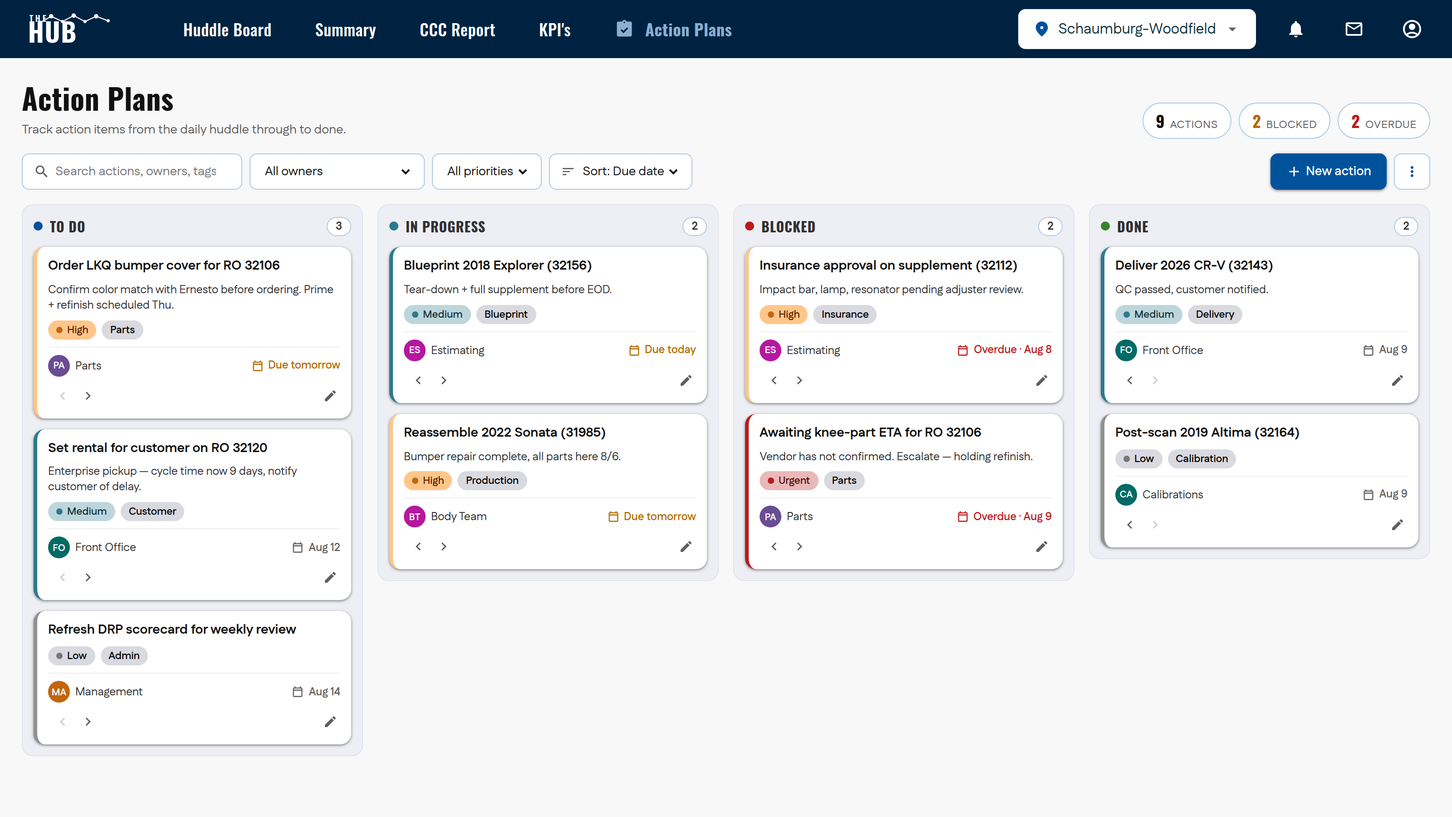
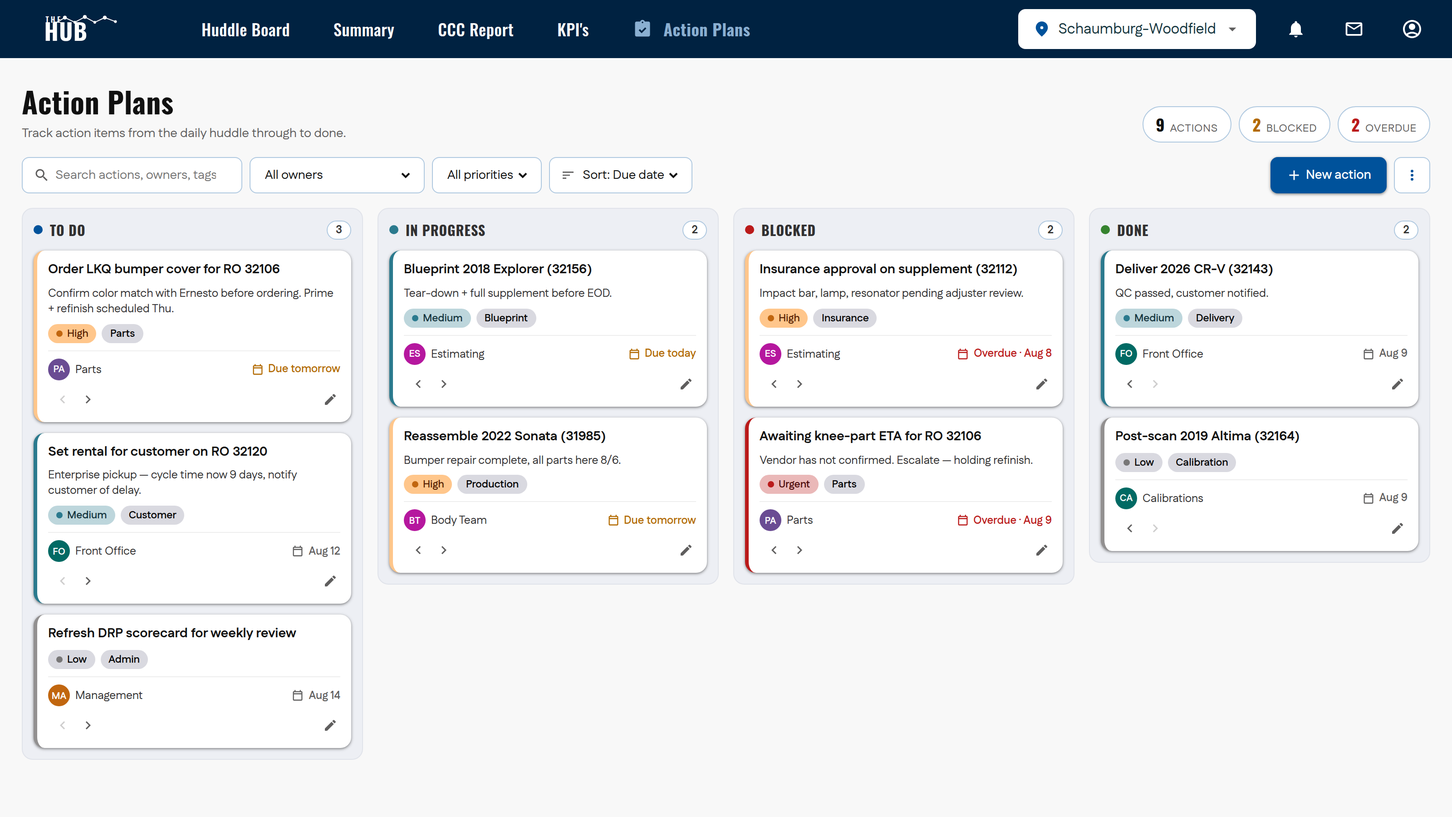
Build header/page on The Hub's real shipped CSS
Import the actual Hub layout stylesheet (assets/hub-shell.css) and
reconstruct the header and page on its real classes:

- Header now uses ClientLayout headerWrapper / navigationBarWrapper and the
  real .thehub button (158px) for the logo; content uses the real
  pageContentWrapper / pageContent (huddleBoard) wrappers.
- Add the real Hub design tokens to :root so the imported CSS resolves
  (nav bar #002241, surface-bright ground, sizing/z-index/spacing).
- Keep the recreated "THE HUB" wordmark as inline SVG art since the shipped
  CSS references an external /thehub.svg that isn't included; documented the
  one-step swap in the README.

Claude-Session: https://claude.ai/code/session_013BSpAv4JN11AdbKWqu4hxe

diff --git a/assets/hub-shell.css b/assets/hub-shell.css
@@ -1,0 +1,7 @@
+.AccessDenied-module-scss-module__4JfQEq__container{background-color:var(--color-neutral-background);justify-content:center;align-items:center;gap:var(--spacing-spacing6);height:calc(100vh - 108px);padding:0 24px;display:flex}@media (min-width:1552px){.AccessDenied-module-scss-module__4JfQEq__container{padding:0 183px}}.AccessDenied-module-scss-module__4JfQEq__container>div{box-sizing:border-box;flex:1}.AccessDenied-module-scss-module__4JfQEq__messageContainer{gap:var(--spacing-spacing6);flex-direction:column;display:flex}.AccessDenied-module-scss-module__4JfQEq__message{color:var(--color-neutral-on-background-variant)}.AccessDenied-module-scss-module__4JfQEq__buttonContainer{justify-content:flex-start;gap:var(--spacing-spacing5);display:flex}
+.thehub-module-scss-module__TSWhsq__focus-visible-border,.thehub-module-scss-module__TSWhsq__button:focus-visible{outline-width:2px;outline-style:solid;outline-color:var(--color-secondary-secondary)}.thehub-module-scss-module__TSWhsq__logo{background-image:url(/thehub.svg);background-position:50%;background-repeat:no-repeat;background-size:contain;flex:1;min-width:0;height:36px}.thehub-module-scss-module__TSWhsq__logoSmallSize{width:200px;height:74px}.thehub-module-scss-module__TSWhsq__theHubColoredLogo{background-image:url(/thehub_colors.svg);background-position:50%;background-repeat:no-repeat;background-size:contain;flex:1;min-width:0;height:100%;margin-bottom:1rem}.thehub-module-scss-module__TSWhsq__button{width:158px;height:inherit;background-color:#0000;flex-shrink:0;align-items:center;padding:0 24px;transition:box-shadow .2s,background .2s;display:flex;position:relative;border:none!important}.thehub-module-scss-module__TSWhsq__button:focus-visible{outline-offset:4px}.thehub-module-scss-module__TSWhsq__button :after{content:"";transition:background .2s;position:absolute;inset:0;border-radius:var(--corner-none)!important}.thehub-module-scss-module__TSWhsq__button:hover{cursor:pointer;border-radius:var(--corner-none);box-shadow:0 1px 2px #0000004d,0 1px 3px 1px #00000026}.thehub-module-scss-module__TSWhsq__button:hover :after{background:#ffffff14}.thehub-module-scss-module__TSWhsq__button:focus,.thehub-module-scss-module__TSWhsq__button:focus-visible{border:none!important}.thehub-module-scss-module__TSWhsq__button:focus :after,.thehub-module-scss-module__TSWhsq__button:focus-visible :after{background:#ffffff1f}.thehub-module-scss-module__TSWhsq__button:active{border:none}.thehub-module-scss-module__TSWhsq__button:active :after{background:#ffffff29}
+.statusDialog-module-scss-module__7iZpvW__background{height:100vh}.statusDialog-module-scss-module__7iZpvW__wrapper{flex-direction:column;justify-content:center;align-items:center;height:65vh;display:flex}.statusDialog-module-scss-module__7iZpvW__logoContainer{flex-direction:column;align-items:center;display:flex}.statusDialog-module-scss-module__7iZpvW__contentWrapper{flex-direction:column;align-items:center;gap:32px;display:flex}.statusDialog-module-scss-module__7iZpvW__content{flex-direction:column;align-items:center;gap:20px;display:flex}.statusDialog-module-scss-module__7iZpvW__contentLeft{text-align:left}.statusDialog-module-scss-module__7iZpvW__contentCenter{text-align:center;align-items:center}.statusDialog-module-scss-module__7iZpvW__textGroup{flex-direction:column;align-items:center;gap:16px;display:flex}.statusDialog-module-scss-module__7iZpvW__messageGroup{flex-direction:column;align-items:center;gap:4px;display:flex}.statusDialog-module-scss-module__7iZpvW__sectionGap{gap:32px}.statusDialog-module-scss-module__7iZpvW__spinnerWrapper{padding:0}
+.ImpersonationBanner-module-scss-module__ltADLa__Container{z-index:var(--z-index-impersonation-banner);background-color:var(--color-background-alert-background-warning-strong);top:var(--sizing-impersonation-banner-height);gap:var(--spacing-spacing3);padding:var(--spacing-spacing5);justify-content:space-between;align-items:center;display:flex;position:sticky}.ImpersonationBanner-module-scss-module__ltADLa__actionsContainer{gap:var(--spacing-spacing6);display:flex}@keyframes ImpersonationBanner-module-scss-module__ltADLa__exitBanner{0%{opacity:1;transform:translateY(0)}to{opacity:0;transform:translateY(-12px)}}.ImpersonationBanner-module-scss-module__ltADLa__isExiting{pointer-events:none;animation:.32s cubic-bezier(.2,0,0,1) forwards ImpersonationBanner-module-scss-module__ltADLa__exitBanner}
+.ClientLayout-module-scss-module__Skw-ja__headerWrapper{width:100%;min-width:100%;z-index:var(--z-index-header);flex-direction:column;display:flex;position:sticky;top:0;left:0}@media print{.ClientLayout-module-scss-module__Skw-ja__headerWrapper{display:none!important}}.ClientLayout-module-scss-module__Skw-ja__navigationBarWrapper{width:inherit;z-index:inherit;background-color:var(--color-primary-on-primary-container);height:var(--sizing-navigation-bar-height);position:sticky}.ClientLayout-module-scss-module__Skw-ja__navigationBarWrapper>:first-child{z-index:inherit;background-color:inherit}@media (min-width:0) and (max-width:1365px){.ClientLayout-module-scss-module__Skw-ja__navigationBarWrapper>:first-child{min-width:var(--sizing-layout-breakpoints-min-width);max-width:var(--sizing-layout-breakpoints-min-width)}}@media (min-width:1366px) and (max-width:1599px){.ClientLayout-module-scss-module__Skw-ja__navigationBarWrapper>:first-child{max-width:100vw}}@media (min-width:1600px) and (max-width:1919px){.ClientLayout-module-scss-module__Skw-ja__navigationBarWrapper>:first-child{max-width:100vw}}@media (min-width:1920px){.ClientLayout-module-scss-module__Skw-ja__navigationBarWrapper>:first-child{max-width:var(--sizing-huddleboard-breakpoints-max-width)}}.ClientLayout-module-scss-module__Skw-ja__navigationBarWrapper>:first-child{width:inherit;height:inherit;margin:0 auto}.ClientLayout-module-scss-module__Skw-ja__impersonationBannerWrapper{width:inherit;top:var(--sizing-navigation-bar-height);background-color:var(--color-background-alert-background-warning-strong);z-index:var(--z-index-navigation-bar);position:sticky}.ClientLayout-module-scss-module__Skw-ja__impersonationBannerWrapper>:first-child{background-color:inherit}@media (min-width:0) and (max-width:1365px){.ClientLayout-module-scss-module__Skw-ja__impersonationBannerWrapper>:first-child{min-width:var(--sizing-layout-breakpoints-min-width);max-width:var(--sizing-layout-breakpoints-min-width)}}@media (min-width:1366px) and (max-width:1599px){.ClientLayout-module-scss-module__Skw-ja__impersonationBannerWrapper>:first-child{max-width:100vw}}@media (min-width:1600px) and (max-width:1919px){.ClientLayout-module-scss-module__Skw-ja__impersonationBannerWrapper>:first-child{max-width:100vw}}@media (min-width:1920px){.ClientLayout-module-scss-module__Skw-ja__impersonationBannerWrapper>:first-child{max-width:var(--sizing-huddleboard-breakpoints-max-width)}}.ClientLayout-module-scss-module__Skw-ja__impersonationBannerWrapper>:first-child{width:inherit;height:inherit;margin:0 auto}.ClientLayout-module-scss-module__Skw-ja__bottomOverlappingElement{min-width:100%;height:var(--sizing-page-content-top-padding);background-color:var(--color-neutral-surface-bright);z-index:inherit}@media (min-width:0) and (max-width:1365px){.ClientLayout-module-scss-module__Skw-ja__bottomOverlappingElement{min-width:var(--sizing-layout-breakpoints-min-width);max-width:var(--sizing-layout-breakpoints-min-width)}}@media (min-width:1366px) and (max-width:1599px){.ClientLayout-module-scss-module__Skw-ja__bottomOverlappingElement{max-width:100vw}}@media (min-width:1600px) and (max-width:1919px){.ClientLayout-module-scss-module__Skw-ja__bottomOverlappingElement{max-width:100vw}}@media (min-width:1920px){.ClientLayout-module-scss-module__Skw-ja__bottomOverlappingElement{max-width:var(--sizing-huddleboard-breakpoints-max-width)}}.ClientLayout-module-scss-module__Skw-ja__pageContentWrapper{width:inherit;background-color:inherit;z-index:var(--z-index-page-content-wrapper);width:inherit;flex-direction:column;align-items:center;margin:0 auto;display:block;position:relative}@media (min-width:0) and (max-width:1365px){.ClientLayout-module-scss-module__Skw-ja__pageContentWrapper{min-width:var(--sizing-layout-breakpoints-min-width);max-width:var(--sizing-layout-breakpoints-min-width)}}@media (min-width:1366px) and (max-width:1599px){.ClientLayout-module-scss-module__Skw-ja__pageContentWrapper{max-width:100vw}}@media (min-width:1600px) and (max-width:1919px){.ClientLayout-module-scss-module__Skw-ja__pageContentWrapper{max-width:100vw}}@media (min-width:1920px){.ClientLayout-module-scss-module__Skw-ja__pageContentWrapper{max-width:var(--sizing-huddleboard-breakpoints-max-width)}}.ClientLayout-module-scss-module__Skw-ja__pageContentWrapper.ClientLayout-module-scss-module__Skw-ja__removeMargins{max-width:none;margin:0;padding:0}.ClientLayout-module-scss-module__Skw-ja__pageContentWrapper.ClientLayout-module-scss-module__Skw-ja__removeMargins>:first-child{min-height:100vh;padding:0}.ClientLayout-module-scss-module__Skw-ja__pageContent{width:inherit;background-color:inherit;z-index:var(--z-index-page-content);margin:0 auto;padding:20px 24px}.ClientLayout-module-scss-module__Skw-ja__pageContent.ClientLayout-module-scss-module__Skw-ja__noHeader{min-height:calc(100vh - var(--sizing-page-content-top-padding))}.ClientLayout-module-scss-module__Skw-ja__pageContent.ClientLayout-module-scss-module__Skw-ja__withHeader{min-height:calc(100vh - var(--sizing-navigation-bar-height) - var(--sizing-page-content-top-padding) - 20px)}.ClientLayout-module-scss-module__Skw-ja__pageContent.ClientLayout-module-scss-module__Skw-ja__huddleBoard{padding-top:0}.ClientLayout-module-scss-module__Skw-ja__defaultPageBackground{background-color:var(--color-neutral-surface-container-high)}
+.inAppNotifications-module-scss-module__wtqP-W__iconWrapper svg{color:var(--color-neutral-surface-container-lowest)}:is(.inAppNotifications-module-scss-module__wtqP-W__profileDropdownButton .dx-overlay-content,.inAppNotifications-module-scss-module__wtqP-W__button .dx-overlay-content,.inAppNotifications-module-scss-module__wtqP-W__profileDropdownButton .dx-popup-normal,.inAppNotifications-module-scss-module__wtqP-W__button .dx-popup-normal,.inAppNotifications-module-scss-module__wtqP-W__profileDropdownButton .dx-popup-inherit-height,.inAppNotifications-module-scss-module__wtqP-W__button .dx-popup-inherit-height,.inAppNotifications-module-scss-module__wtqP-W__profileDropdownButton .dx-resizable,.inAppNotifications-module-scss-module__wtqP-W__button .dx-resizable){padding:20px;box-shadow:none!important;background-color:#0000!important}.inAppNotifications-module-scss-module__wtqP-W__profileDropdownButton,.inAppNotifications-module-scss-module__wtqP-W__button{background-color:#0000!important}.inAppNotifications-module-scss-module__wtqP-W__profileDropdown,.inAppNotifications-module-scss-module__wtqP-W__dialog{width:280px;min-width:112px;max-width:280px;padding:4px}:is(.inAppNotifications-module-scss-module__wtqP-W__profileDropdown .dx-list-items,.inAppNotifications-module-scss-module__wtqP-W__dialog .dx-list-items){flex-direction:column;align-items:flex-start;padding:8px 16px;display:flex}:is(.inAppNotifications-module-scss-module__wtqP-W__profileDropdown .dx-list-item-content,.inAppNotifications-module-scss-module__wtqP-W__dialog .dx-list-item-content){padding:0}:is(.inAppNotifications-module-scss-module__wtqP-W__profileDropdown .dx-list-group-header,.inAppNotifications-module-scss-module__wtqP-W__dialog .dx-list-group-header){border:0;padding:0}:is(.inAppNotifications-module-scss-module__wtqP-W__profileDropdown .dx-list-group,.inAppNotifications-module-scss-module__wtqP-W__dialog .dx-list-group){padding:0}.inAppNotifications-module-scss-module__wtqP-W__profileDropdownHeader,.inAppNotifications-module-scss-module__wtqP-W__header{background:var(--color-neutral-surface-container-lowest);border-bottom:1px solid var(--color-neutral-surface-outline-variant);color:var(--color-primary-primary);border-top-left-radius:12px;border-top-right-radius:12px;align-self:stretch;align-items:flex-start;gap:10px;padding:16px 16px 16px 24px;display:flex;box-shadow:0 1px 2px #6898c440,0 1px 3px 1px #6898c440}:is(.inAppNotifications-module-scss-module__wtqP-W__profileDropdownContent .dx-list-group:not(.dx-list-group-collapsed):not(:last-child),.inAppNotifications-module-scss-module__wtqP-W__content .dx-list-group:not(.dx-list-group-collapsed):not(:last-child)){border-color:var(--color-neutral-surface-outline-variant)}.inAppNotifications-module-scss-module__wtqP-W__profileDropdownContent,.inAppNotifications-module-scss-module__wtqP-W__content{background-color:var(--color-neutral-surface-container-low);border-bottom-right-radius:12px;border-bottom-left-radius:12px;box-shadow:0 1px 2px #6898c440,0 1px 3px 1px #6898c440}.inAppNotifications-module-scss-module__wtqP-W__hiddenDropdownGroup{height:8px}.inAppNotifications-module-scss-module__wtqP-W__disabledIcon{color:var(--color-neutral-on-surface-variant)!important;opacity:.38!important}.inAppNotifications-module-scss-module__wtqP-W__profileDropdownGroup{align-self:stretch;align-items:flex-start;gap:10px;padding:10px;display:flex}.inAppNotifications-module-scss-module__wtqP-W__profileDropdownItem{align-self:stretch;align-items:center;gap:12px;height:56px;padding:8px 12px;display:flex}.inAppNotifications-module-scss-module__wtqP-W__badge>span{width:15px!important;min-width:15px!important;height:15px!important;font-size:.5rem!important;top:3px!important;right:3px!important}.inAppNotifications-module-scss-module__wtqP-W__dialog{width:350px;max-width:350px;padding:4px}.inAppNotifications-module-scss-module__wtqP-W__noContent{align-self:stretch;align-items:flex-start;gap:10px;padding:32px 16px 16px 24px;display:flex}.inAppNotifications-module-scss-module__wtqP-W__content .dx-item{background-color:var(--color-neutral-surface-container-low);cursor:default}.inAppNotifications-module-scss-module__wtqP-W__content .dx-item.dx-state-focused{background-color:var(--color-neutral-surface-container-low)!important}.inAppNotifications-module-scss-module__wtqP-W__content .dx-item.dx-state-focused .dx-item-content div{background-color:#00529b14!important}.inAppNotifications-module-scss-module__wtqP-W__list{width:100%}.inAppNotifications-module-scss-module__wtqP-W__list .dx-list-items{padding-bottom:128px!important}.inAppNotifications-module-scss-module__wtqP-W__list .dx-list-group{width:100%;padding-bottom:0!important}.inAppNotifications-module-scss-module__wtqP-W__groupHeader{text-align:center;width:100%;color:var(--color-neutral-on-surface-variant);margin:4px 0;padding:8px 20px}.inAppNotifications-module-scss-module__wtqP-W__notification{border:1px solid var(--color-neutral-surface-outline-variant);border-radius:12px;margin:4px 0;padding:8px 20px}.inAppNotifications-module-scss-module__wtqP-W__notification:hover{cursor:default;background-color:#00529b14}.inAppNotifications-module-scss-module__wtqP-W__unread{background-color:var(--color-neutral-surface-container-lowest)}.inAppNotifications-module-scss-module__wtqP-W__read{border-color:var(--color-neutral-surface-container);background-color:var(--color-neutral-surface-bright)}.inAppNotifications-module-scss-module__wtqP-W__fetchMore{padding:16px}.inAppNotifications-module-scss-module__wtqP-W__actions{padding:16px 16px 0}
+.techSheetContents-module-scss-module__2fOxnG__container{background-color:var(--color-neutral-surface-container-lowest);width:100%;height:100dvh;overflow:hidden}.techSheetContents-module-scss-module__2fOxnG__printWrapper{flex-direction:column;width:100%;height:100dvh;display:flex;position:relative;overflow:hidden}.techSheetContents-module-scss-module__2fOxnG__printHintOverlay{z-index:10;pointer-events:all;position:absolute;bottom:24px;left:50%;transform:translate(-50%)}.techSheetContents-module-scss-module__2fOxnG__embed{border:none;flex:auto;width:100%;min-height:0;display:block}.techSheetContents-module-scss-module__2fOxnG__printFrame{opacity:0;pointer-events:none;border:none;width:100%;height:100%;position:absolute;top:0;left:0}.techSheetContents-module-scss-module__2fOxnG__offscreenPrintFrame{opacity:0;pointer-events:none;border:none;width:1px;height:1px;position:absolute;top:-9999px;left:-9999px}.techSheetContents-module-scss-module__2fOxnG__floatingActionBar{z-index:var(--z-index-tech-sheet-actions);width:calc(100vw - 48px);padding:var(--spacing-spacing6) var(--spacing-spacing6);justify-content:space-between;align-items:center;gap:var(--spacing-spacing6);border-top:1px solid var(--color-neutral-outline-variant);background:var(--color-neutral-surface-container-lowest);display:flex}.techSheetContents-module-scss-module__2fOxnG__actionBarLogo{background-image:url(/thehub_colors.svg);background-position:0;background-repeat:no-repeat;background-size:contain;flex:none;width:158px;height:56px}.techSheetContents-module-scss-module__2fOxnG__actionButtons{align-items:center;gap:var(--spacing-spacing6);display:flex}.techSheetContents-module-scss-module__2fOxnG__hidden{visibility:hidden}.techSheetContents-module-scss-module__2fOxnG__loaderContainer{position:absolute;top:50%;left:50%;transform:translate(-50%,-50%)}

diff --git a/assets/styles.css b/assets/styles.css
@@ -6,6 +6,44 @@
    ============================================================ */
 
 :root {
+  /* ===== Real Hub design tokens (verbatim values from the shipped CSS) =====
+     These back the imported hub-shell.css so its var() references resolve. */
+  --color-primary-on-primary-container: #002241;
+  --color-primary-primary: #00529b;
+  --color-secondary-secondary: #2b7a8e;
+  --color-neutral-background: #fff;
+  --color-neutral-surface-bright: #f8f8f8;
+  --color-neutral-surface-container-lowest: #fff;
+  --color-neutral-surface-container-low: #f8f8f8;
+  --color-neutral-surface-container: #dfdfdf;
+  --color-neutral-surface-container-high: #d1d1d1;
+  --color-neutral-surface-outline-variant: #d5e2ee;
+  --color-neutral-on-surface-variant: #313031;
+  --color-neutral-on-background-variant: #474647;
+  --color-neutral-outline-variant: #b0c9e0;
+  --color-background-alert-background-warning-strong: #ffc107;
+
+  --spacing-spacing1: 2px;  --spacing-spacing2: 4px;  --spacing-spacing3: 8px;
+  --spacing-spacing4: 12px; --spacing-spacing5: 16px; --spacing-spacing6: 24px;
+  --spacing-spacing7: 32px; --spacing-spacing8: 40px; --spacing-spacing9: 48px;
+
+  --sizing-navigation-bar-height: 64px;
+  --sizing-page-content-top-padding: 24px;
+  --sizing-impersonation-banner-height: 64px;
+  --sizing-layout-breakpoints-min-width: 1366px;
+  --sizing-layout-breakpoints-max-width: 1600px;
+  --sizing-huddleboard-breakpoints-max-width: 1920px;
+
+  --z-index-header: 6;
+  --z-index-navigation-bar: 6;
+  --z-index-navigation-bar-background: 5;
+  --z-index-page-content-wrapper: 5;
+  --z-index-page-content: 0;
+  --z-index-impersonation-banner: 7;
+  --z-index-selector-dropdown: 1307;
+
+  --corner-none: 0;
+
   /* Brand / primary */
   --navy: #002241;                 /* nav bar background (on-primary-container) */
   --primary: #00529b;
@@ -84,7 +122,7 @@
 html, body {
   margin: 0;
   padding: 0;
-  background: var(--navy);
+  background: var(--color-neutral-surface-bright);
   font-family: var(--font-plain);
   color: var(--on-surface);
   -webkit-font-smoothing: antialiased;
@@ -96,28 +134,28 @@ button { font-family: inherit; }
 /* ------------------------------------------------------------
    Navigation bar (mirrors ClientLayout / navigationMenu)
    ------------------------------------------------------------ */
-.appbar {
-  height: var(--nav-height);
-  background: var(--navy);
+/* Inner flex row placed inside the real navigationBarWrapper's centered child */
+.navbar-inner {
+  height: var(--sizing-navigation-bar-height);
   display: flex;
   align-items: center;
   gap: var(--sp7);
   padding: 0 var(--sp6);
-  position: sticky;
-  top: 0;
-  z-index: 6;
 }
 
-.brand {
+/* Logo art lives inside the real .thehub…logo span; drop its external bg image
+   (the shipped class points at /thehub.svg, which isn't shipped with this repo). */
+.thehub-module-scss-module__TSWhsq__logo {
+  background-image: none !important;
   display: flex;
   align-items: center;
-  flex-shrink: 0;
-  padding-right: var(--sp3);
-  background: transparent;
-  border: none;
-  cursor: pointer;
 }
-.brand .brand-logo { height: 38px; width: auto; display: block; }
+.thehub-module-scss-module__TSWhsq__logo .brand-logo {
+  width: 100%;
+  height: auto;
+  max-height: 36px;
+  display: block;
+}
 
 .nav-menu {
   display: flex;
@@ -204,12 +242,9 @@ button { font-family: inherit; }
 /* ------------------------------------------------------------
    Page content
    ------------------------------------------------------------ */
-.page {
-  background: var(--surface-bright);
-  min-height: calc(100vh - var(--nav-height));
-  padding: 20px var(--sp6) var(--sp8);
-}
-.page-inner { max-width: 1920px; margin: 0 auto; }
+/* The real Hub pageContent handles width, centering, and padding;
+   just add a little breathing room at the bottom. */
+.ClientLayout-module-scss-module__Skw-ja__pageContent { padding-bottom: var(--sp8); }
 
 .page-head {
   display: flex;

diff --git a/index.html b/index.html
@@ -9,13 +9,18 @@
   <link rel="preconnect" href="https://fonts.googleapis.com" />
   <link rel="preconnect" href="https://fonts.gstatic.com" crossorigin />
   <link href="https://fonts.googleapis.com/css2?family=Oswald:wght@300;400;500;600;700&family=Fustat:wght@300;400;500;600;700;800&display=swap" rel="stylesheet" />
+  <link rel="stylesheet" href="assets/hub-shell.css" />
   <link rel="stylesheet" href="assets/styles.css" />
 </head>
 <body>
-  <!-- ================= Navigation bar ================= -->
-  <header class="appbar">
-    <button class="brand" aria-label="The Hub">
-      <svg class="brand-logo" viewBox="0 0 150 46" role="img" aria-label="The Hub" fill="none">
+  <!-- ================= Navigation bar — real Hub ClientLayout shell ================= -->
+  <div class="ClientLayout-module-scss-module__Skw-ja__headerWrapper">
+    <div class="ClientLayout-module-scss-module__Skw-ja__navigationBarWrapper">
+      <div>
+        <div class="navbar-inner">
+          <button class="thehub-module-scss-module__TSWhsq__button" aria-label="The Hub">
+            <span class="thehub-module-scss-module__TSWhsq__logo" role="img" aria-label="The Hub logo">
+              <svg class="brand-logo" viewBox="0 0 150 46" aria-hidden="true" fill="none">
         <text x="3" y="13.5" fill="#fff" font-family="'Oswald','Arial Narrow',sans-serif" font-size="11" font-weight="600" letter-spacing="3">THE</text>
         <text x="1" y="41" fill="#fff" font-family="'Oswald','Arial Narrow',sans-serif" font-size="35" font-weight="700" letter-spacing="1">HUB</text>
         <!-- hub-and-spoke network over the wordmark -->
@@ -29,10 +34,11 @@
           <circle cx="92" cy="6" r="2.9" />
           <circle cx="108" cy="12" r="2.1" />
         </g>
-      </svg>
-    </button>
+              </svg>
+            </span>
+          </button>
 
-    <nav class="nav-menu" aria-label="Primary">
+          <nav class="nav-menu" aria-label="Primary">
       <button class="nav-item" data-label="Huddle Board"><span class="label">Huddle Board</span></button>
       <button class="nav-item" data-label="Summary"><span class="label">Summary</span></button>
       <button class="nav-item" data-label="CCC Report"><span class="label">CCC Report</span></button>
@@ -62,12 +68,16 @@
       <button class="icon-btn" aria-label="User profile">
         <svg width="24" height="24" viewBox="0 0 24 24" fill="currentColor" aria-hidden="true"><path d="M12 2C6.48 2 2 6.48 2 12s4.48 10 10 10 10-4.48 10-10S17.52 2 12 2M7.35 18.5C8.66 17.56 10.26 17 12 17s3.34.56 4.65 1.5C15.34 19.44 13.74 20 12 20s-3.34-.56-4.65-1.5m10.79-1.38C16.45 15.8 14.32 15 12 15s-4.45.8-6.14 2.12C4.7 15.73 4 13.95 4 12c0-4.42 3.58-8 8-8s8 3.58 8 8c0 1.95-.7 3.73-1.86 5.12M12 6c-1.93 0-3.5 1.57-3.5 3.5S10.07 13 12 13s3.5-1.57 3.5-3.5S13.93 6 12 6"/></svg>
       </button>
+          </div>
+        </div>
+      </div>
     </div>
-  </header>
+    <div class="ClientLayout-module-scss-module__Skw-ja__bottomOverlappingElement"></div>
+  </div>
 
-  <!-- ================= Page ================= -->
-  <main class="page">
-    <div class="page-inner">
+  <!-- ================= Page — real Hub content wrappers ================= -->
+  <div class="ClientLayout-module-scss-module__Skw-ja__pageContentWrapper ClientLayout-module-scss-module__Skw-ja__huddleBoard">
+    <div class="ClientLayout-module-scss-module__Skw-ja__pageContent ClientLayout-module-scss-module__Skw-ja__withHeader ClientLayout-module-scss-module__Skw-ja__huddleBoard">
       <div class="page-head">
         <div class="page-title-wrap">
           <h1 class="page-title">Action Plans</h1>
@@ -125,7 +135,7 @@
 
       <div class="board" id="board" aria-label="Action plan board"></div>
     </div>
-  </main>
+  </div>
 
   <!-- ================= Add / Edit modal ================= -->
   <div class="overlay" id="overlay" role="presentation">

diff --git a/README.md b/README.md
@@ -39,9 +39,15 @@ between visits on the same browser.
 
 | File | Purpose |
 |------|---------|
-| `index.html` | Page shell: Hub navigation bar, toolbar, board mount point, add/edit modal. |
-| `assets/styles.css` | Design tokens pulled from the shipped Hub CSS + all component styles. |
+| `index.html` | Page shell built on The Hub's real `ClientLayout` / `thehub` markup, plus the toolbar, board mount point, and add/edit modal. |
+| `assets/hub-shell.css` | The Hub's actual shipped layout/navigation CSS, imported verbatim (header/nav wrappers, logo button, page-content centering). |
+| `assets/styles.css` | The Hub design tokens + all Action-Plans component styles. |
 | `assets/app.js` | Board state, rendering, drag & drop, filtering/sorting, and persistence. |
+
+> **Logo note:** the shipped CSS loads the wordmark from `/thehub.svg`, which isn't
+> included here, so `index.html` uses a hand-built recreation of the "THE HUB"
+> wordmark (inline SVG). Drop the real `thehub.svg` into the repo and point the
+> `.thehub…logo` span at it to make the logo pixel-exact.
 
 ## How this maps onto the real Hub
 
